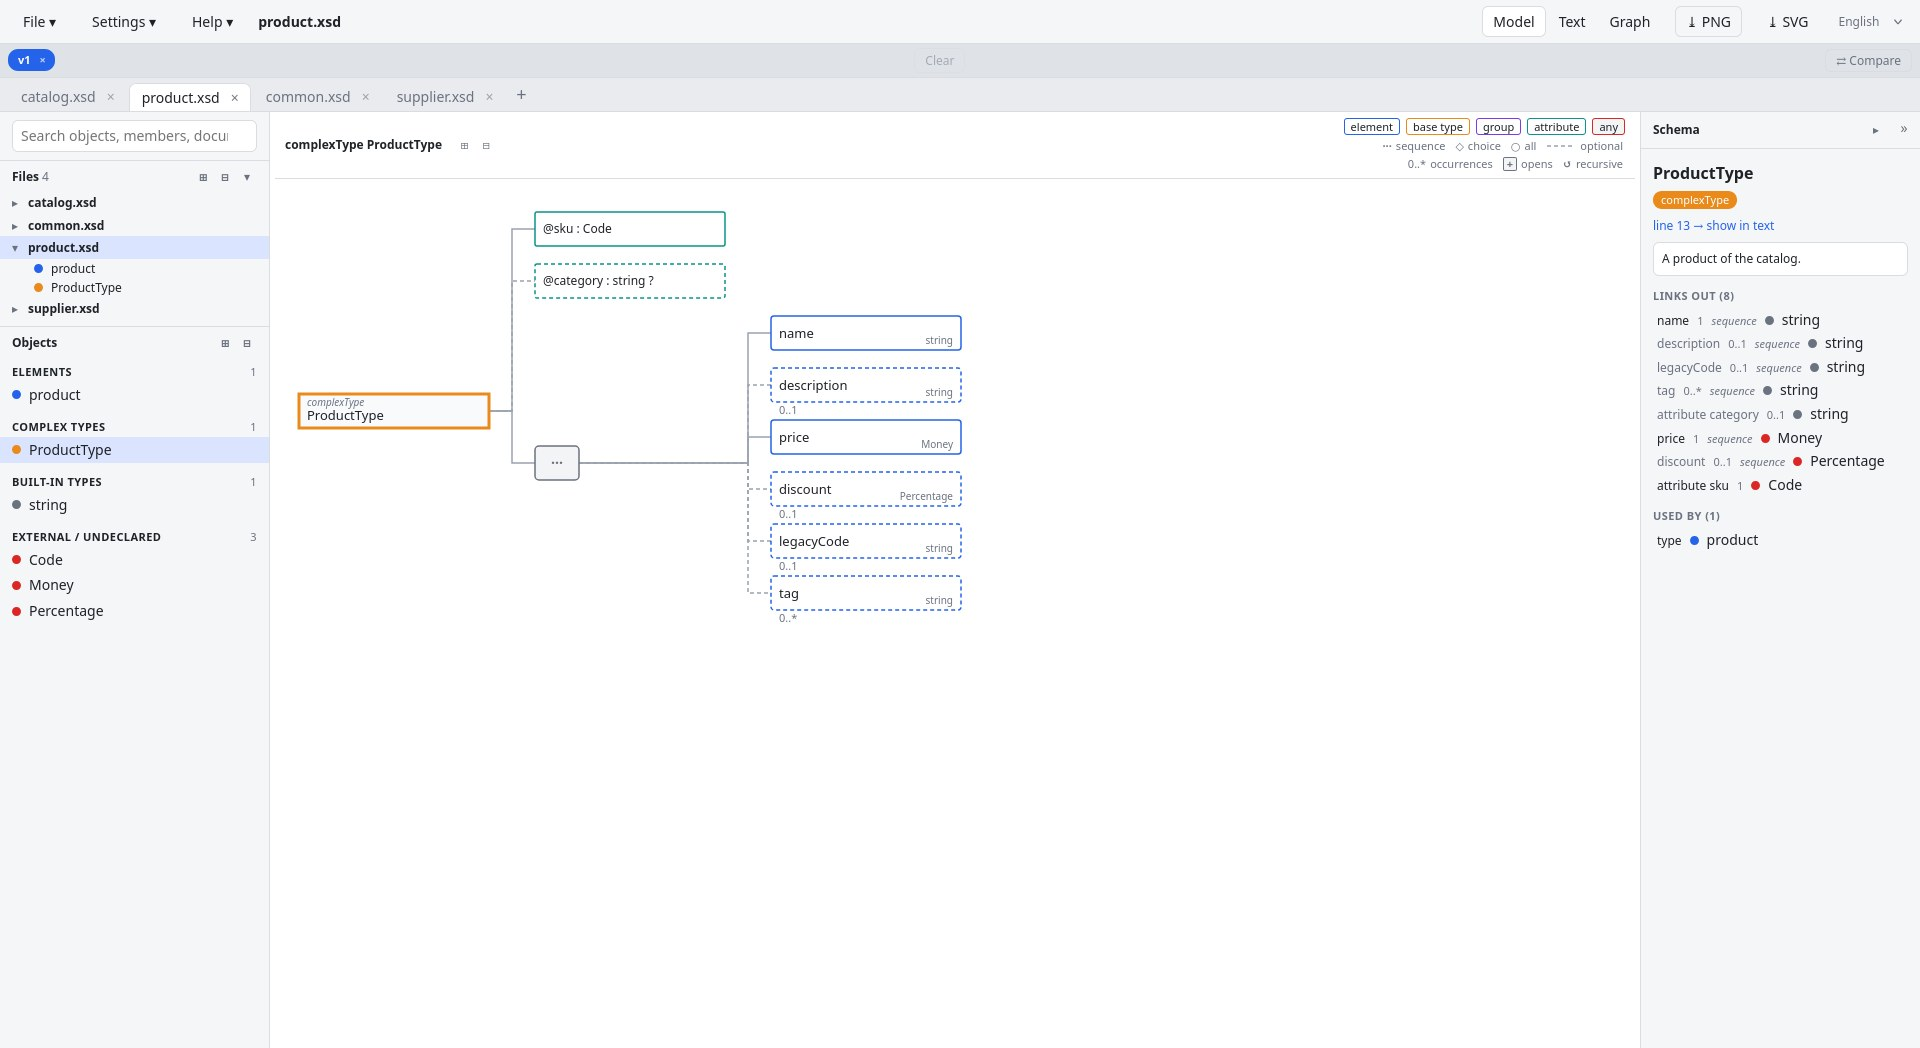
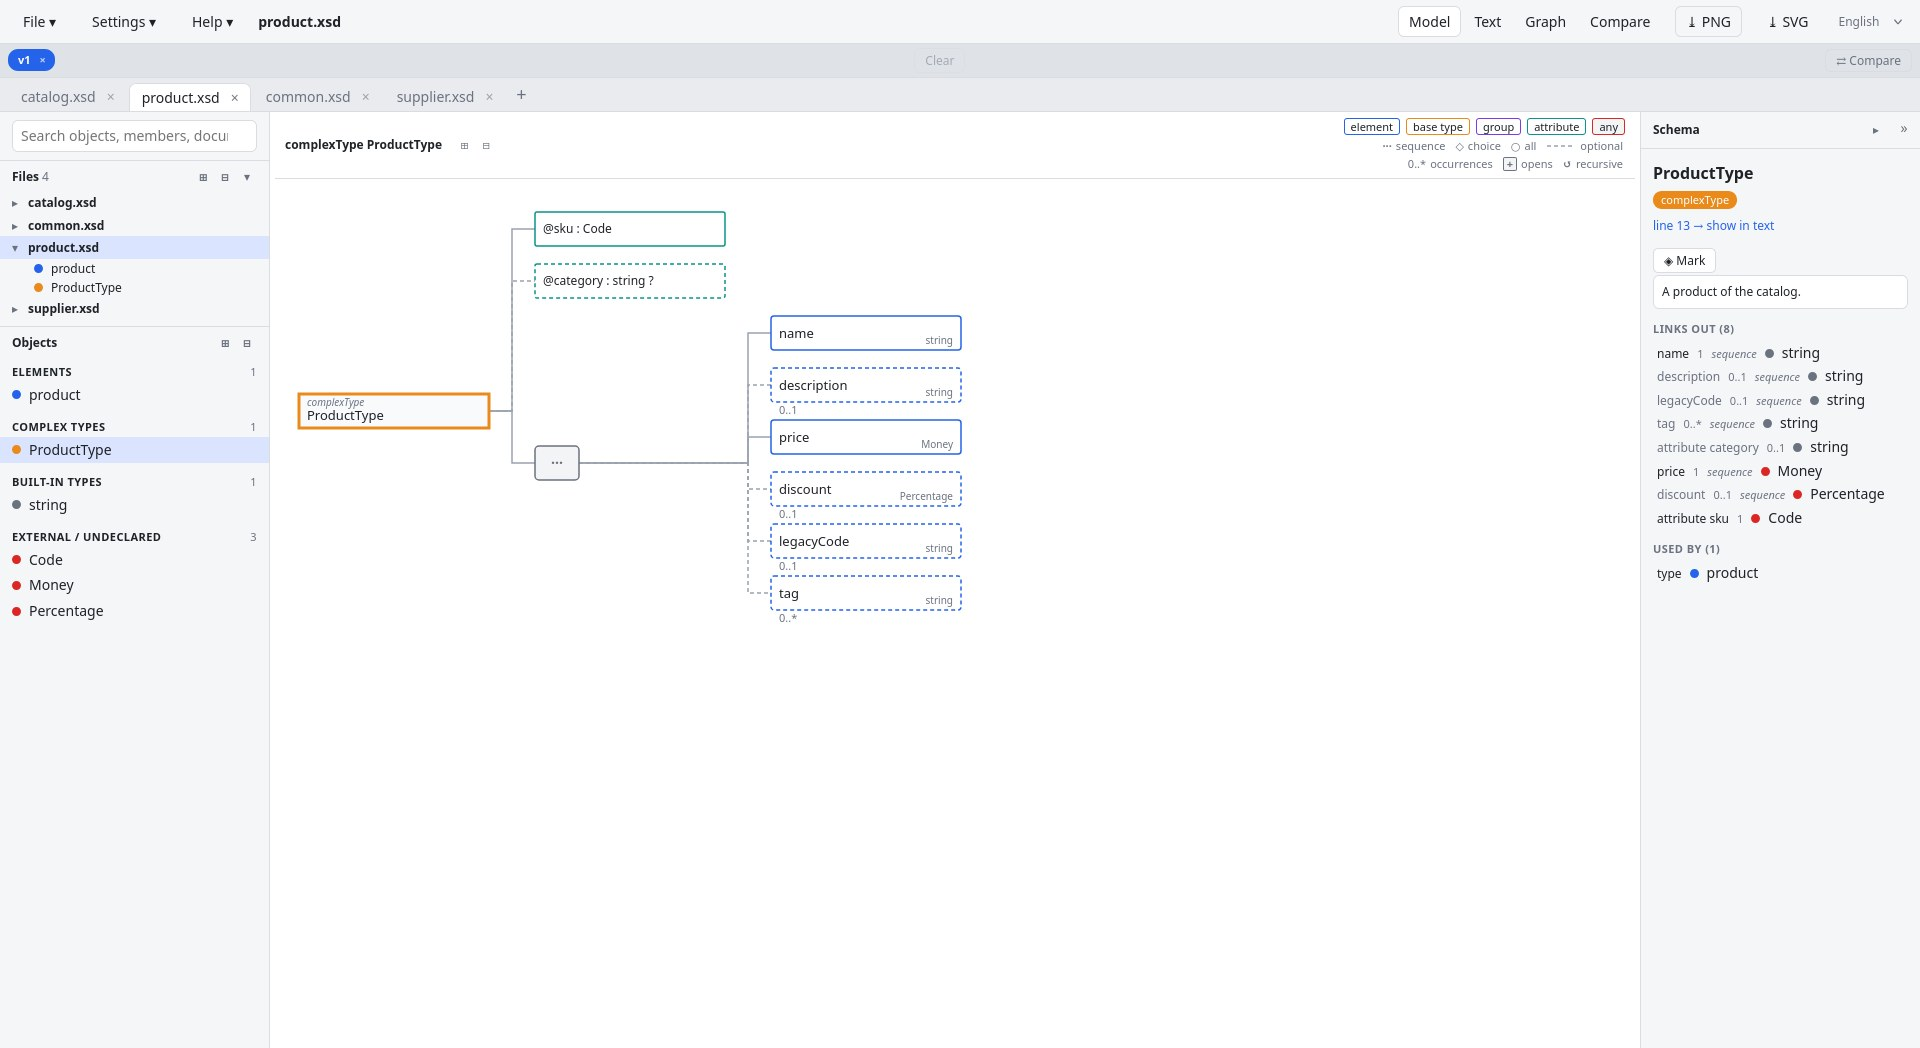
The README's pictures redone, with the Compare view among them
Every picture showed a tab bar of three views; there are four now. The Compare
view gets one of its own: ProductType of v1 against the one of v2, marked one
after the other, with what only each side has and what changed.

The workspace comparison's picture is renamed for what it shows, the plain
"compare view" name now belonging to the view. A duplicate scene name is
refused: a name is a file name and a result key, and two scenes briefly shared
one here.

Claude-Session: https://claude.ai/code/session_013SdfJ4b79pJQS3Tmx11xn2

Changed region(s): [[0.8438, 0.2443, 0.9688, 0.5496], [0.7188, 0.0, 0.8438, 0.0305]]

diff --git a/scripts/screenshots.py b/scripts/screenshots.py
@@ -324,6 +324,23 @@ SCENES = [
                  'marks': '17/9/0/4'}),   # nothing matches but the two roots and their sequences, which are the two subjects and are drawn plain
     # the four pictures of the README (screenshots/), on the comparison sample: shot like any other
     # scene, checked like any other, and written as JPEG by --docs
+    dict(name='doc-compare-view', file='samples/compare/v1.xsdviewer.json', theme='light', size=DOC_SIZE, doc='XsdViewer-compare-view.jpg',
+         action=OPEN_V2 + "document.getElementById('compareClose').click();"
+                # the same declaration in two versions of the schema set: marked on each side
+                "[...document.querySelectorAll('#workspaces .wsgroup')].find(w => w.textContent.includes('v1')).click();"
+                "[...document.querySelectorAll('#tabs .dtab')].find(t => t.textContent.includes('product.xsd')).click();"
+                "document.querySelector('#nodeList .item[data-id=\"complexType:ProductType\"]').click();"
+                "document.querySelector('#detailsContent .cobj-mark').click();"
+                "[...document.querySelectorAll('#workspaces .wsgroup')].find(w => w.textContent.includes('v2')).click();"
+                "[...document.querySelectorAll('#tabs .dtab')].find(t => t.textContent.includes('product.xsd')).click();"
+                "document.querySelector('#nodeList .item[data-id=\"complexType:ProductType\"]').click();"
+                "document.querySelector('#detailsContent .cobj-mark').click();"
+                "document.querySelector('.tab[data-view=\"compare\"]').click();"
+                "await new Promise(r => setTimeout(r, 400));"
+                "document.getElementById('toast').classList.add('hidden');",
+         checks={'summary': "document.getElementById('objectCompareSummary').textContent",
+                 'marks': "['removed','added','changed'].map(c => document.querySelectorAll('#objectCompareBody .mbox.' + c).length).join('/')"},
+         expect={'summary': '1 only on the left, 3 only on the right, 3 changed', 'marks': '1/3/6'}),
     dict(name='doc-model', file='samples/compare/v1.xsdviewer.json', theme='light', size=DOC_SIZE, doc='XsdViewer-model-view.jpg',
          action="document.querySelectorAll('#tabs .dtab')[1].click();"
                 "document.querySelector('#nodeList .item[data-id=\"complexType:ProductType\"]').click();"
@@ -347,7 +364,7 @@ SCENES = [
          checks={'highlighted': "document.querySelectorAll('#text .line.hl').length",
                  'view': "document.querySelector('.tab.active').dataset.view"},
          expect={'highlighted': 1, 'view': 'text'}),
-    dict(name='doc-compare', file='samples/compare/v1.xsdviewer.json', theme='light', size=DOC_SIZE, doc='XsdViewer-compare-view.jpg',
+    dict(name='doc-compare-workspaces', file='samples/compare/v1.xsdviewer.json', theme='light', size=DOC_SIZE, doc='XsdViewer-compare-workspaces.jpg',
          action=OPEN_V2 + "document.querySelector('#compareTable .crow.different').click();"
                 "await new Promise(r => setTimeout(r, 300));"
                 "document.getElementById('toast').classList.add('hidden');",
@@ -492,6 +509,10 @@ def main():
     scenes = [s for s in SCENES if (not docs or s.get('doc')) and (only is None or s['name'] in only)]
     if not scenes:
         sys.exit('no scene selected')
+    names = [s['name'] for s in SCENES]
+    for name in names:
+        if names.count(name) > 1:
+            sys.exit('two scenes are named %s: a name is a file name and a result key' % name)
     if not JAR.exists():
         sys.exit('%s missing: run mvn package first' % JAR)
     if not shutil.which(FIREFOX):

diff --git a/architecture.md b/architecture.md
@@ -347,7 +347,7 @@ Build and test:
 | maven-compiler-plugin | 3.13.0 | `--release 21` |
 | maven-jar-plugin | 3.4.1 | sets `Main-Class: org.jtools.xsdviewer.XsdViewerApplication` (no shading needed: no dependencies) |
 | maven-surefire-plugin | 3.2.5 | runs the tests |
-| JUnit Jupiter | 5.8.2 (test scope) | `XsdParserTest`, `WsdlParserTest`, `SchematronParserTest`, `SchematronValidatorTest` and `SchemaGraphJsonWriterTest` (against the samples), `PageContractTest` (the vocabulary shared with `js/constants.js`: node kinds, link labels, API paths), `JavaScriptTestsTest` (runs `src/test/js/*.test.mjs` — the page's pure modules: diff, business lines, cardinalities, schema diff… — under Node when it is installed, skipped otherwise; the CI installs it), and `scripts/screenshots.py` (a visual smoke test with headless Firefox: the samples opened in the built jar, a few facts checked on the page, one screenshot per scene; the four scenes carrying a `doc` name are the README's pictures, written as JPEG in `screenshots/` by `--docs`), `JsonWriterTest`, `JsonReaderTest`, `WorkspaceTest`, `CommandLineOptionsTest`, `TranslationsTest`, `SchemaFolderTest`, and `XsdViewerServerTest` (the HTTP interface on an ephemeral port) |
+| JUnit Jupiter | 5.8.2 (test scope) | `XsdParserTest`, `WsdlParserTest`, `SchematronParserTest`, `SchematronValidatorTest` and `SchemaGraphJsonWriterTest` (against the samples), `PageContractTest` (the vocabulary shared with `js/constants.js`: node kinds, link labels, API paths), `JavaScriptTestsTest` (runs `src/test/js/*.test.mjs` — the page's pure modules: diff, business lines, cardinalities, schema diff… — under Node when it is installed, skipped otherwise; the CI installs it), and `scripts/screenshots.py` (a visual smoke test with headless Firefox: the samples opened in the built jar, a few facts checked on the page, one screenshot per scene; the scenes carrying a `doc` name are the README's pictures, written as JPEG in `screenshots/` by `--docs`; `--only=a,b` runs named scenes, and a duplicate scene name is refused, a name being a file name and a result key), `JsonWriterTest`, `JsonReaderTest`, `WorkspaceTest`, `CommandLineOptionsTest`, `TranslationsTest`, `SchemaFolderTest`, and `XsdViewerServerTest` (the HTTP interface on an ephemeral port) |
 | `scripts/run.sh` / `scripts\run.bat` | – | rebuilds the jar when sources are newer, then runs it (Linux/macOS, Windows) |
 | `src/dist/xsdviewer.sh` / `xsdviewer.bat` | – | launchers of the distributions; on Windows the `.bat` starts `javaw.exe` from a command line (`--console` to keep one) |
 | launch4j-maven-plugin | 2.7.0 | `dist` profile only: builds `XsdViewer.exe`, a GUI-subsystem Windows launcher (no console window) running the bundled `jre\` with `xsdviewer.jar`; arguments are passed through |

diff --git a/README.md b/README.md
@@ -143,10 +143,17 @@ restricted to `xs:enumeration` values), the values with their own documentation.
 
 ![Graph view](screenshots/XsdViewer-graph-view.jpg)
 
+**Compare view** — two declarations side by side, wherever each of them lives. Here `ProductType`
+of `v1` against the one of `v2`, marked one after the other: `legacyCode` is only in `v1` (red),
+`weight` only in `v2` (green, its own type opened), and `@category`, `description` and `tag`
+changed their occurrences (blue). The two need not share a name, a file or a workspace.
+
+![Compare view](screenshots/XsdViewer-compare-view.jpg)
+
 **Comparing two workspaces** — `v1` against `v2` of the same schema set: file by file, the
 declarations and links only on one side, then the two sources side by side.
 
-![Compare view](screenshots/XsdViewer-compare-view.jpg)
+![Comparing two workspaces](screenshots/XsdViewer-compare-workspaces.jpg)
 
 ## Build and run
 
@@ -288,7 +295,7 @@ linking and the packing. Extra arguments (e.g. `-DskipTests`) are passed to `mvn
 `scripts/screenshots.py` is a visual smoke test: with the jar built and Firefox installed, it opens
 the samples, drives the page (a selection, the text view, two levels, the dark theme), checks a few
 facts on it and saves a screenshot of each scene in `target/screenshots/`. `--only=a,b` runs the
-named scenes; `--docs` runs the four whose shot is published, saving them as JPEG in
+named scenes; `--docs` runs the five whose shot is published, saving them as JPEG in
 `screenshots/` — the pictures of this file.
 
 ## What counts as a link
